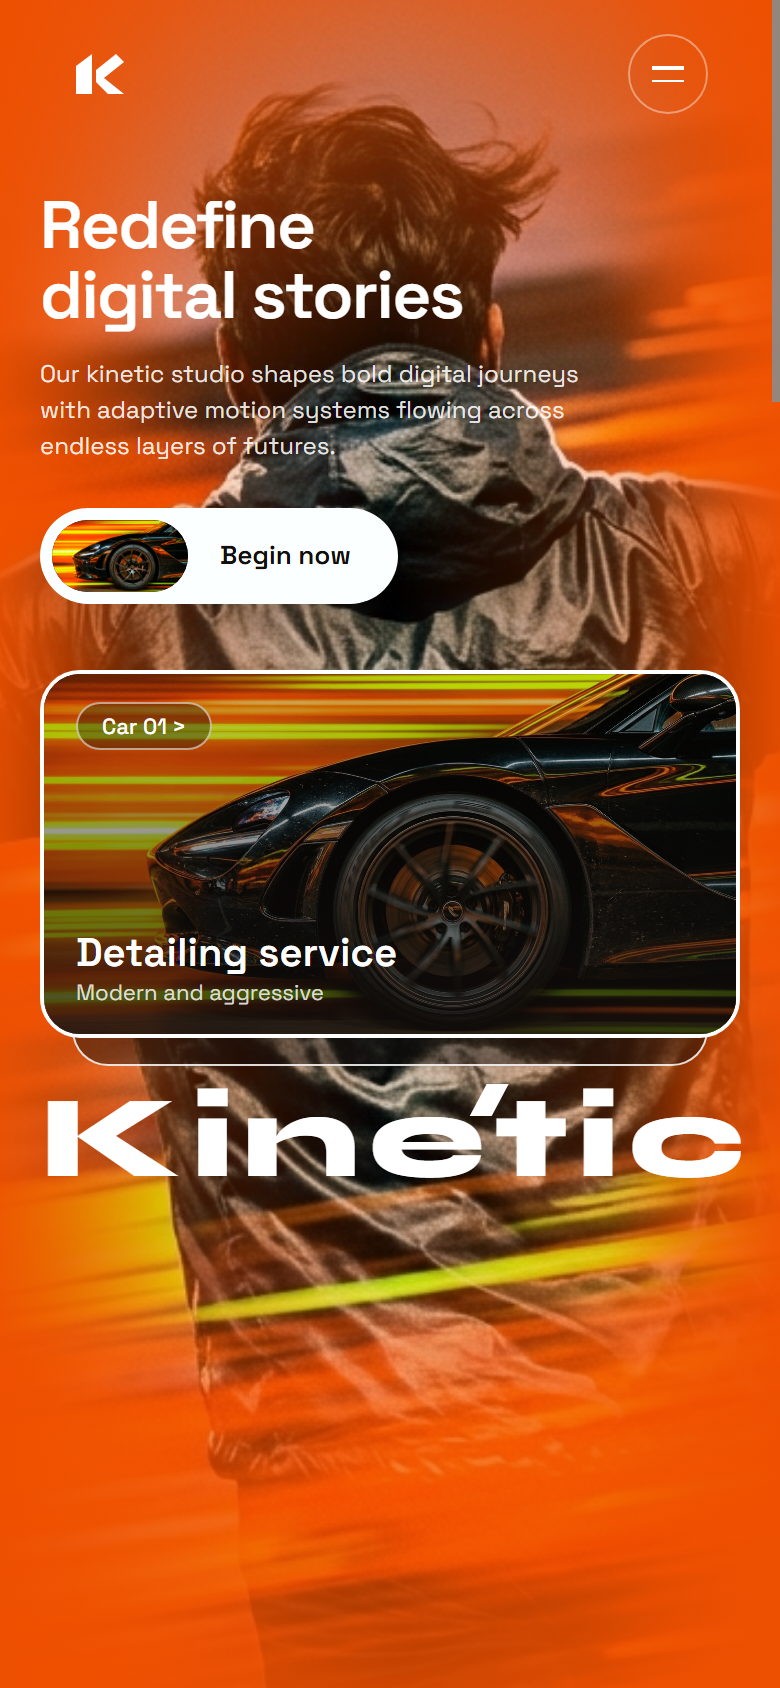
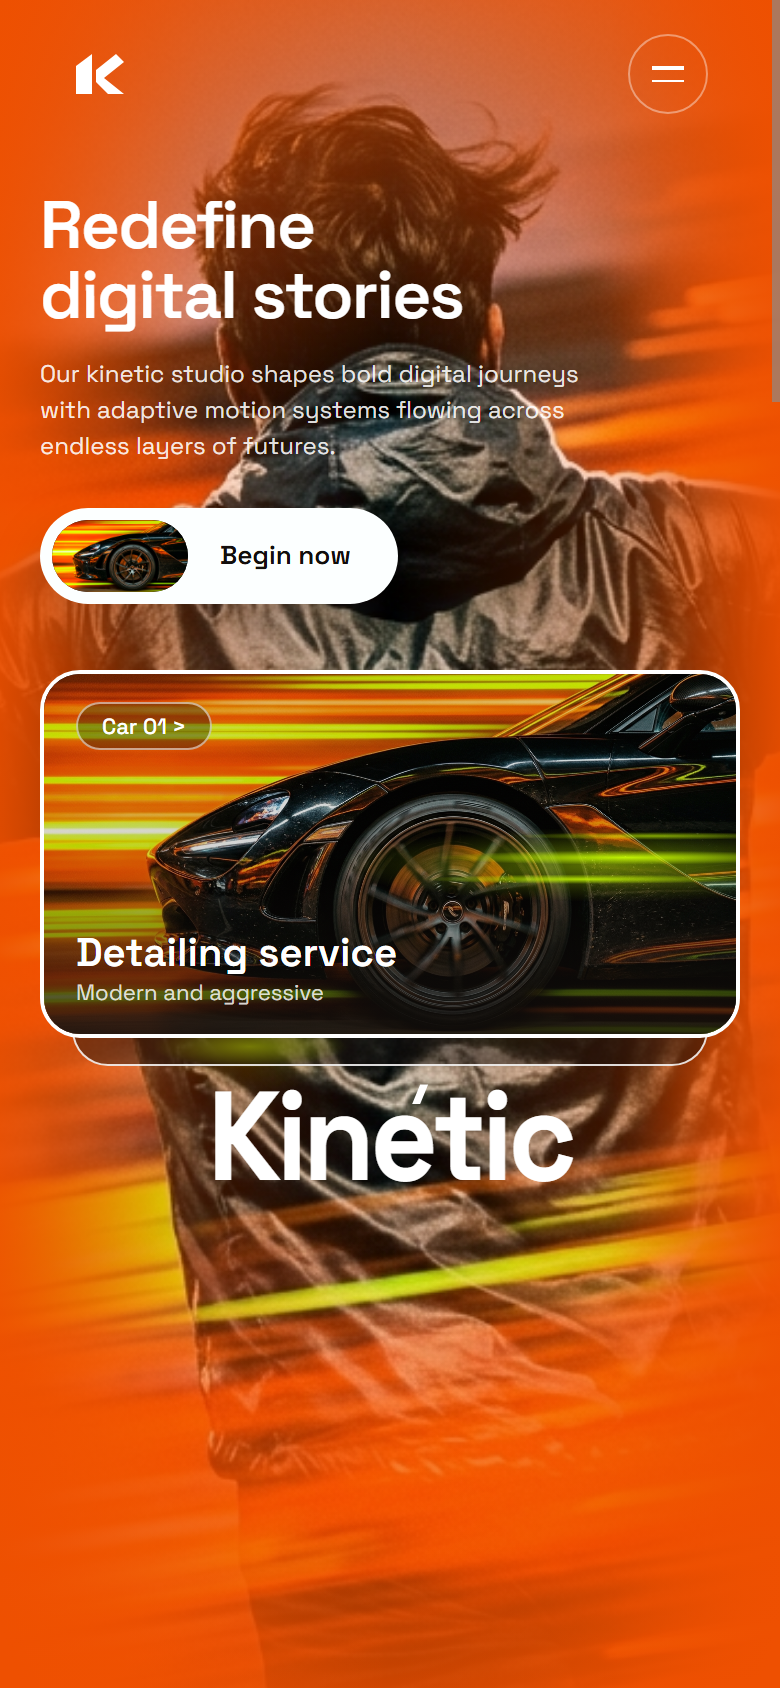
style(motionstudio_tangerineorange+white+acidlime): add acid-lime speed streaks, widen Kinetic wordmark, and refresh screenshots

diff --git a/motionstudio_tangerineorange+white+acidlime/styles.css b/motionstudio_tangerineorange+white+acidlime/styles.css
@@ -183,7 +183,13 @@ img { display: block; max-width: 100%; }
   inset: 0;
   background:
     linear-gradient(90deg, rgba(238, 80, 1, 0.85) 0%, rgba(238, 80, 1, 0.25) 26%, transparent 50%, rgba(238, 80, 1, 0.25) 78%, rgba(238, 80, 1, 0.88) 100%),
-    linear-gradient(180deg, rgba(238, 80, 1, 0.72) 0%, transparent 24%, transparent 72%, rgba(238, 80, 1, 0.82) 100%);
+    linear-gradient(180deg, rgba(238, 80, 1, 0.72) 0%, transparent 24%, transparent 72%, rgba(238, 80, 1, 0.82) 100%),
+    radial-gradient(ellipse 14% 2.6% at 30% 56%, rgba(200, 253, 3, 0.85), rgba(200, 253, 3, 0.18) 62%, transparent 88%),
+    radial-gradient(ellipse 16% 1.6% at 32% 62%, rgba(200, 253, 3, 0.92), transparent 78%),
+    radial-gradient(ellipse 14% 2.2% at 67% 54%, rgba(200, 253, 3, 0.82), rgba(200, 253, 3, 0.16) 60%, transparent 86%),
+    radial-gradient(ellipse 16% 1.4% at 65% 60%, rgba(200, 253, 3, 0.86), transparent 76%),
+    radial-gradient(ellipse 18% 7% at 32% 59%, rgba(200, 253, 3, 0.34), transparent 85%),
+    radial-gradient(ellipse 18% 6.5% at 66% 57%, rgba(200, 253, 3, 0.32), transparent 85%);
 }
 
 .hero-inner {
@@ -310,7 +316,13 @@ img { display: block; max-width: 100%; }
 .card-scrim {
   position: absolute;
   inset: 0;
-  background: linear-gradient(180deg, rgba(18, 14, 12, 0.15) 0%, rgba(18, 14, 12, 0.78) 100%);
+  z-index: 1;
+  background:
+    radial-gradient(ellipse 36% 2.6% at 84% 51%, rgba(200, 253, 3, 0.92), transparent 76%),
+    radial-gradient(ellipse 32% 1.8% at 78% 57%, rgba(200, 253, 3, 0.84), transparent 74%),
+    radial-gradient(ellipse 28% 1.5% at 88% 45%, rgba(200, 253, 3, 0.62), transparent 72%),
+    radial-gradient(ellipse 46% 12% at 82% 53%, rgba(200, 253, 3, 0.46), rgba(200, 253, 3, 0.1) 62%, transparent 86%),
+    linear-gradient(180deg, rgba(18, 14, 12, 0.12) 0%, rgba(18, 14, 12, 0.18) 54%, rgba(18, 14, 12, 0.84) 100%);
 }
 
 .car-tag {
@@ -339,15 +351,17 @@ img { display: block; max-width: 100%; }
   margin: 0;
   width: 100%;
   display: flex;
-  justify-content: space-between;
+  justify-content: center;
   align-items: baseline;
-  font-family: var(--font-display);
-  font-size: clamp(4.8rem, 16.5vw, 15.2rem);
-  font-weight: 800;
+  font-family: var(--font-sans);
+  font-size: clamp(4.8rem, 27.5vw, 25.2rem);
+  font-weight: 700;
   line-height: 0.78;
-  letter-spacing: -0.04em;
+  letter-spacing: -0.045em;
   color: #FFFFFF;
   text-transform: lowercase;
+  transform: scaleY(1.08);
+  transform-origin: bottom center;
   user-select: none;
 }
 
@@ -360,12 +374,12 @@ img { display: block; max-width: 100%; }
 .t-acute::before {
   content: '';
   position: absolute;
-  top: -0.08em;
-  left: -0.14em;
-  width: 0.18em;
-  height: 0.28em;
+  top: -0.02em;
+  left: -0.145em;
+  width: 0.075em;
+  height: 0.16em;
   background: #FFFFFF;
-  transform: skewX(-28deg);
+  transform: skewX(-24deg);
 }
 
 /* Below the fold */
@@ -516,7 +530,7 @@ h2 {
   .hero-inner { padding: 96px 20px 20px; gap: 28px; }
   .hero-mid { flex-direction: column; align-items: flex-start; }
   .hero-card-stack { width: 100%; }
-  .hero-wordmark { font-size: clamp(3rem, 15vw, 4.6rem); }
+  .hero-wordmark { font-size: clamp(3rem, 15vw, 4.6rem); letter-spacing: -0.04em; }
   .work-grid, .about-split, .contact-grid { grid-template-columns: 1fr; }
 }
 
